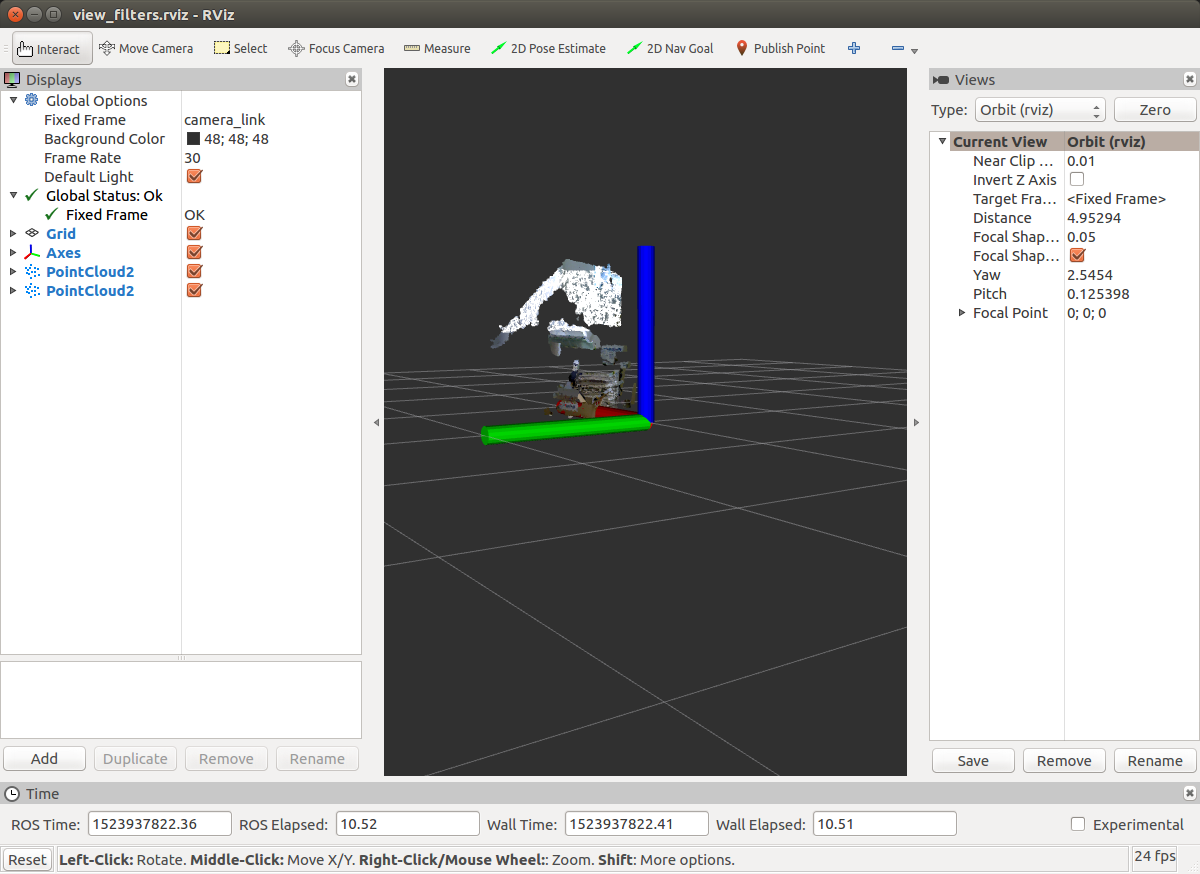
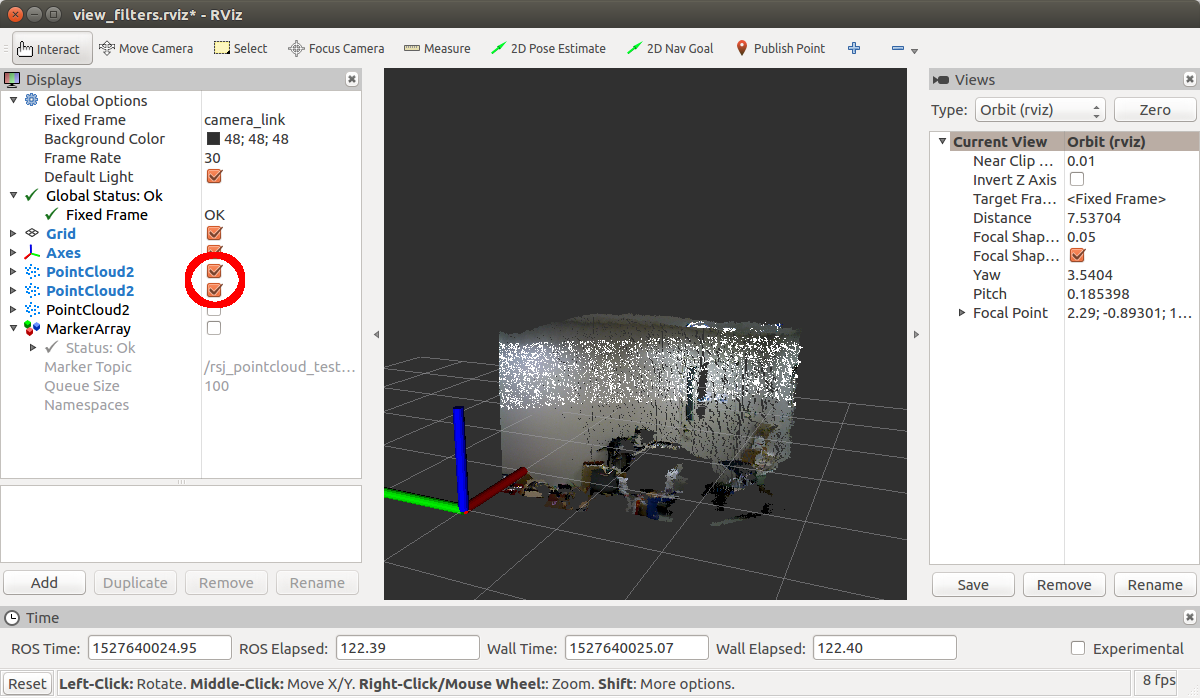
Fix:フィルタのRVizの図を正しい物に入れ替え。コードの追記箇所を修正。

diff --git a/ros_3d_points_filters.md b/ros_3d_points_filters.md
@@ -102,7 +102,8 @@ $ roslaunch rsj_pointcloud_to_laserscan.launch
 新しいターミナルを開き、`rsj_pointcloud_test_node`を起動します。
 
 ```shell
-$ rosrun  rsj_pointcloud_test rsj_pointcloud_test_node _target_frame:=camera_link _topic_name:=/camera/depth_registered/points
+$ rosrun  rsj_pointcloud_test rsj_pointcloud_test_node \
+_target_frame:=camera_link _topic_name:=/camera/depth_registered/points
 [ INFO] [1524040063.315596383]: target_frame='camera_link'
 [ INFO] [1524040063.315656650]: topic_name='/camera/depth_registered/points'
 [ INFO] [1524040063.320448185]: Hello Point Cloud!
@@ -122,7 +123,8 @@ $ rosrun  rsj_pointcloud_test rsj_pointcloud_test_node _target_frame:=camera_lin
 ```shell
 $ cd ~/catkin_ws/
 $ source devel/setup.bash
-$ rosrun rsj_pointcloud_test rsj_pointcloud_test_node _target_frame:= _topic_name:=/????????
+$ rosrun rsj_pointcloud_test rsj_pointcloud_test_node \
+_target_frame:= _topic_name:=/????????
 ```
 
 実行した際に`points (src: xxxx, paththrough: xxx)`というメッセージが表示されれば成功です。
@@ -137,12 +139,14 @@ RViz でフィルタ実行後の点群の様子を可視化します。rsj_point
 $ cd ~/catkin_ws/src/rsj_pointcloud_test/config/rviz
 $ rviz -d view_filters.rviz
 ```
+なお、 RViz は`roscore`が起動していれば、上記のように`rviz`とタイプするだけでも実行可能です。
 
-最初は図のようにフィルタ実行前と実行後の点群が重なって表示されています。
+図のように Rviz の左方にある`PointCloud2`のチェックボックスのうち、上2つだけにチェックを入れてください。
+フィルタ実行前と実行後の点群が重なって表示されています。
 
 ![XtionPointsOrigin](images/xtion_view_filter_origin.png)
 
-RViz の左にある PointCloud2 の上の方のチェックを外すとフィルタ実行後の点群だけが表示されます。
+`PointCloud2`のチェックボックスのうち上から2番めのチェックだけをチェックするとフィルタ実行後の点群だけが表示されます。
 
 ![XtionPointsPassThrough](images/xtion_view_passthrough.png)
 
@@ -384,7 +388,7 @@ void cb_points(const PointCloud::ConstPtr &msg)
       Eigen::Vector4f cluster_size = max_pt - min_pt;
       if (cluster_size.x() > 0 && cluster_size.y() > 0 && cluster_size.z() > 0)
       {
-        // 以下を追記
+        // 以下を追記・修正
         bool is_ok = true;
         if (cluster_size.x() < 0.05 || cluster_size.x() > 0.4)
         {
@@ -408,8 +412,8 @@ void cb_points(const PointCloud::ConstPtr &msg)
           marker.color.a = 0.5f;
           ok++;
         }
-        // 追記箇所ここまで
         marker_array.markers.push_back(marker);
+        // 追記・修正箇所ここまで
       }
     }
     if (marker_array.markers.empty() == false)
